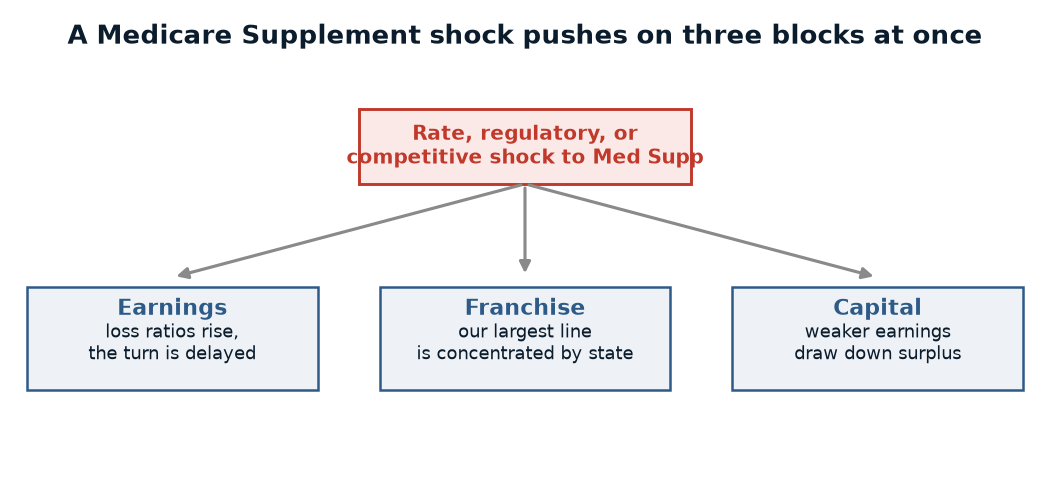
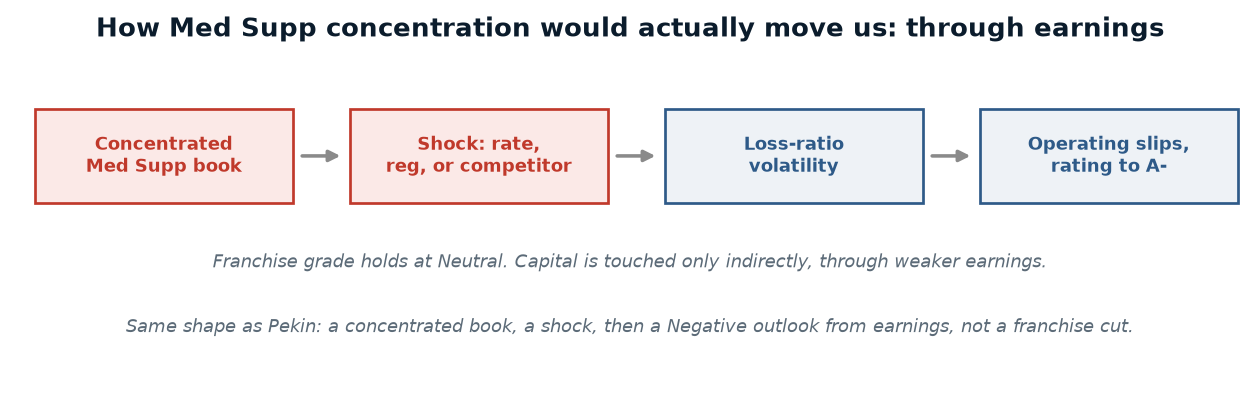
Reframe Med Supp concentration as an operating-performance risk
Section 10 rewrite. The prior "hits earnings, franchise, and capital at
once" framing overstated the business-profile channel: AM Best's franchise
grade is driven by scale, market position, and product breadth, and pure
geographic concentration rarely lowers a diversified carrier's grade (HCSC
in a few states is Favorable; Pekin, multi-line and Illinois-concentrated,
holds Neutral like us). Recast concentration as an earnings risk that
amplifies the one block already in play, with Pekin's weather-concentration
Negative outlook as the real-world template. Rebuilt the figure as the
earnings-channel chain. Summary updated to match.

Claude-Session: https://claude.ai/code/session_01YRueGHXtRVcegcpASvBSya

diff --git a/src/make_rating_paper.py b/src/make_rating_paper.py
@@ -166,24 +166,27 @@ def fig_ladder():
 
 
 def fig_msstress():
-    fig, ax = plt.subplots(figsize=(7.0, 3.2), constrained_layout=True)
-    ax.axis("off")
-    ax.text(0.5, 0.92, "A Medicare Supplement shock pushes on three blocks at once",
-            ha="center", fontsize=12.5, fontweight="bold", color=INK, transform=ax.transAxes)
-    # source box
-    ax.add_patch(plt.Rectangle((0.34, 0.62), 0.32, 0.16, fc="#FBE9E7", ec=WELL, lw=1.4, transform=ax.transAxes))
-    ax.text(0.5, 0.70, "Rate, regulatory, or\ncompetitive shock to Med Supp", ha="center", va="center",
-            fontsize=9.5, color=WELL, fontweight="bold", transform=ax.transAxes)
-    blocks = [(0.16, "Earnings", "loss ratios rise,\nthe turn is delayed"),
-              (0.5, "Franchise", "our largest line\nis concentrated by state"),
-              (0.84, "Capital", "weaker earnings\ndraw down surplus")]
-    for x, title, sub in blocks:
-        ax.annotate("", xy=(x, 0.42), xytext=(0.5, 0.62),
-                    arrowprops=dict(arrowstyle="-|>", color="#8A8A8A", lw=1.5), transform=ax.transAxes)
-        ax.add_patch(plt.Rectangle((x - 0.14, 0.18), 0.28, 0.22, fc="#EEF2F6", ec=ACCENT, lw=1.2, transform=ax.transAxes))
-        ax.text(x, 0.34, title, ha="center", fontsize=10.5, fontweight="bold", color=ACCENT, transform=ax.transAxes)
-        ax.text(x, 0.245, sub, ha="center", fontsize=8.5, color=INK, transform=ax.transAxes)
-    fig.savefig(FIG / "rp_msstress.png"); plt.close(fig)
+    fig = plt.figure(figsize=(8.4, 2.7))
+    ax = fig.add_axes([0, 0, 1, 1]); ax.axis("off"); ax.set_xlim(0, 1); ax.set_ylim(0, 1)
+    ax.text(0.5, 0.91, "How Med Supp concentration would actually move us: through earnings",
+            ha="center", fontsize=12.5, fontweight="bold", color=INK)
+    chain = [(0.13, "#FBE9E7", WELL, "Concentrated\nMed Supp book"),
+             (0.38, "#FBE9E7", WELL, "Shock: rate,\nreg, or competitor"),
+             (0.63, "#EEF2F6", ACCENT, "Loss-ratio\nvolatility"),
+             (0.88, "#EEF2F6", ACCENT, "Operating slips,\nrating to A-")]
+    bw, bh, by = 0.205, 0.23, 0.50
+    for i, (x, fc, ec, txt) in enumerate(chain):
+        ax.add_patch(plt.Rectangle((x - bw / 2, by), bw, bh, fc=fc, ec=ec, lw=1.3))
+        ax.text(x, by + bh / 2, txt, ha="center", va="center", fontsize=8.7, color=ec, fontweight="bold")
+        if i < len(chain) - 1:
+            ax.annotate("", xy=(chain[i + 1][0] - bw / 2 - 0.004, by + bh / 2),
+                        xytext=(x + bw / 2 + 0.004, by + bh / 2),
+                        arrowprops=dict(arrowstyle="-|>", color="#8A8A8A", lw=1.7))
+    ax.text(0.5, 0.34, "Franchise grade holds at Neutral. Capital is touched only indirectly, through weaker earnings.",
+            ha="center", fontsize=8.6, color=MUTE, style="italic")
+    ax.text(0.5, 0.18, "Same shape as Pekin: a concentrated book, a shock, then a Negative outlook from earnings, not a franchise cut.",
+            ha="center", fontsize=8.6, color=MUTE, style="italic")
+    fig.savefig(FIG / "rp_msstress.png", dpi=150); plt.close(fig)
 
 
 # ============================================================ docx helpers
@@ -480,16 +483,33 @@ def build():
            ["A one-letter dip to A-", "about 20%", "The balance-sheet grade slips at the trough, or the earnings turn comes late. Recoverable as results improve."],
            ["Below A- to B++", "about 5%", "Capital and earnings slip together near the trough. The real tail, and the one this paper is about."]])
 
-    H(doc, "10.  Medicare Supplement concentration, the stress that hits everything at once")
-    body(doc, "There is one scenario that does not respect the neat one-lever-at-a-time logic, and it deserves its "
-              "own place. Medicare Supplement is our largest line, and our sales are concentrated in our top states. "
-              "A shock to that line, whether a regulatory change, a wave of rate pressure, or a competitive move, "
-              "would not land in one place. It would push on our earnings, because loss ratios would rise and the "
-              "turn would be delayed. It would push on our franchise, because our most concentrated line is the one "
-              "under pressure. And it would push on our capital, because weaker earnings draw down surplus faster. "
-              "This is the event that can move several blocks at the same time, which is why it is the concentration "
-              "we watch most closely even though the franchise grade is otherwise stable.")
-    img(doc, "rp_msstress.png", "Figure 6. A single Medicare Supplement shock pushes on earnings, franchise, and capital together, which is how a one-letter risk becomes a two-letter one.")
+    H(doc, "10.  Medicare Supplement concentration, an earnings risk more than a franchise one")
+    body(doc, "Medicare Supplement is our largest line, and our sales are concentrated in our top states. The natural "
+              "worry is that this concentration threatens our franchise grade. It is worth being precise about how it "
+              "would actually hurt us, because the intuition points at the wrong block.")
+    body(doc, "AM Best's business-profile grade is driven mostly by scale, market position, and product breadth, and "
+              "pure geographic concentration rarely lowers a diversified carrier's grade on its own. The peers prove "
+              "it. HCSC writes Medicare Supplement in only a handful of states and is assessed Favorable, carried by "
+              "the scale of its overall health franchise. Pekin Life is a close match to us, multi-line with Medicare "
+              "Supplement in its book and operating in 22 states but heavily concentrated in Illinois, and it holds "
+              "Neutral, the same grade we do. Our own franchise is broader than either the small specialists or a "
+              "single-state carrier, with multiple senior-market lines, more than 40 states, and several distribution "
+              "channels. State concentration in one line is unlikely to move that grade.")
+    body(doc, "Where the concentration would bite is earnings. A regulatory change, a wave of rate pressure, or a "
+              "competitive move aimed at our top Medicare Supplement states would raise loss ratios and delay or "
+              "reverse the very turn the whole rating depends on. That lands on operating performance, the block that "
+              "is already most in play and the one that realistically moves us. The concentration is dangerous "
+              "because it makes an earnings slip both more likely and deeper, not because it lowers our franchise "
+              "grade. And if that earnings slip arrives near the capital trough, it is exactly the both-levers case "
+              "from the previous section.")
+    img(doc, "rp_msstress.png", "Figure 6. Med Supp concentration would move us through earnings, the block already in play, rather than through the franchise grade.")
+    body(doc, "Pekin is the real-world template, through the right channel. Its concentration risk is property "
+              "catastrophe in the Midwest, a different peril, but the shape is identical: a concentrated book, a "
+              "shock in the form of severe storms, and the result was a move to a Negative outlook in 2024 driven by "
+              "earnings pressure, since restored to Stable. The geographic concentration acted through earnings and "
+              "the outlook, not through a franchise downgrade. For us the concentrated book is Medicare Supplement "
+              "and the shock would be regulatory, rate, or competitive, but the mechanism is the same, which is why "
+              "we watch this as an operating-performance risk.")
 
     H(doc, "11.  What we watch, and what is in our control")
     bullet(doc, "The BCAR trajectory, because BCAR and not the RBC ratio sets the balance-sheet grade. If BCAR holds well above 25% through the trough, the Strongest grade is more likely to survive the RBC decline.")
@@ -509,10 +529,11 @@ def build():
               "slip takes us to A- as well, and that move comes with warning and is reversible. The case that takes "
               "us to B++ is both levers slipping together, and the reason it is worth real attention is timing, "
               "because the plan stresses capital and earnings in the same two years, with earnings already at the "
-              "bottom of Adequate. A Medicare Supplement shock is the one event that could push capital, earnings, "
-              "and franchise at once, so it is the concentration we watch most. The things in our control are the "
-              "combined-ratio turn, the BCAR trajectory, disciplined capital actions, and reading the outlook as the "
-              "early signal it is.")
+              "bottom of Adequate. Our Medicare Supplement state concentration is best understood as part of that "
+              "earnings risk. It would not lower our franchise grade, but it makes an earnings slip more likely and "
+              "deeper, which is the slip that costs us a letter and, near the capital trough, the one that could "
+              "reach B++. The things in our control are the combined-ratio turn, the BCAR trajectory, disciplined "
+              "capital actions, and reading the outlook as the early signal it is.")
 
     note = doc.add_paragraph(); rn = note.add_run(
         "Sources and method. Wellabe's rating, grades, and financials come from the AM Best Credit Report for "